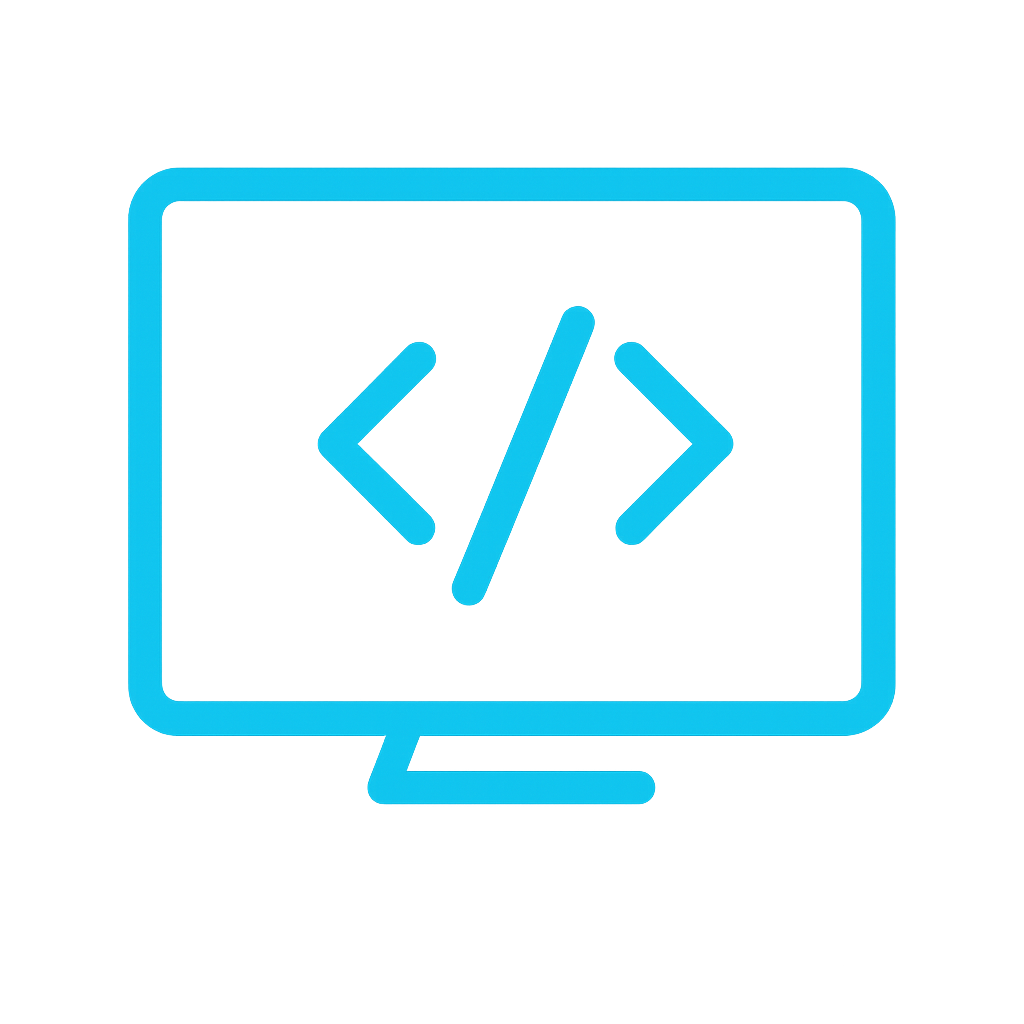
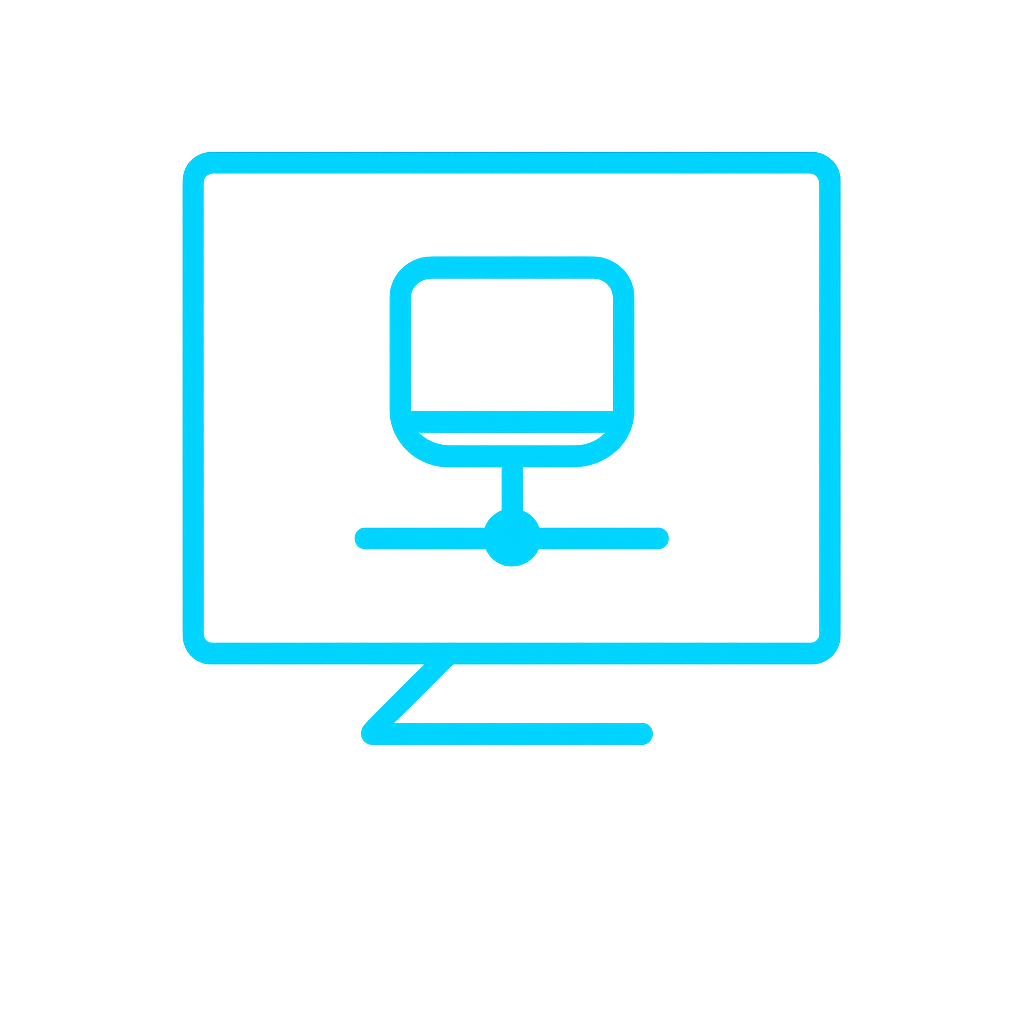
Service page is now available

Changed region(s): [[0.125, 0.125, 0.875, 0.8125], [0.3125, 0.25, 0.7188, 0.5938]]

diff --git a/src/Services/Services.tsx b/src/Services/Services.tsx
@@ -3,43 +3,45 @@ import './Services.css';
 const Services: React.FC = () => {
 
   return (
-    <section id="services">
-      <h3>Our Services</h3>
-      <div className="services">
-        <div className="service-item">
-          <h4>Web Development</h4>
-          <p>Design and develop modern, responsive websites that align with your brand and help achieve your business objectives.</p>
-        </div>
-        <div className="service-item">
-          <h4>SEO Optimization</h4>
-          <p>Boost your website's visibility on search engines with tailored strategies, keyword optimization, and analytics-driven results.</p>
-        </div>
-        <div className="service-item">
-          <h4>Custom Software Solutions</h4>
-          <p>Create bespoke software to automate workflows, improve efficiency, and solve specific business challenges.</p>
-        </div>
-        <div className="service-item">
-          <h4>Digital Marketing Assistance</h4>
-          <p>Expand your online reach with tailored marketing strategies, including social media campaigns and content creation.</p>
-        </div>
-        <div className="service-item">
-          <h4>Computer Setup & Optimization</h4>
-          <p>Ensure your devices are running at peak performance with expert setup, troubleshooting, and system optimization.</p>
-        </div>
-        <div className="service-item">
-          <h4>Networking & Internet Services</h4>
-          <p>Set up and optimize reliable, secure networks for your home or business, tailored to your specific needs.</p>
-        </div>
-        <div className="service-item">
-          <h4>Consultation</h4>
-          <p>Get expert advice on digital solutions, technology upgrades, and strategies to drive business success.</p>
-        </div>
-        <div className="service-item">
-          <h4>Workshops & Learning</h4>
-          <p>Get expert advice on digital solutions, technology upgrades, and strategies to drive business success.</p>
-        </div>        
+    <div className="services-page">
+      <div className="services-header">
+        <h1>Our Services</h1>
+        <p>Tailored Tech Solutions for Your Needs</p>
       </div>
-    </section>
+
+      <section className="services-grid">
+        <div className="service-card">
+          <img src="../assets/icon-web.webp" alt="Website Design" />
+          <h2>Website Design</h2>
+          <p>Custom, responsive websites that are user-friendly and visually appealing.</p>
+        </div>
+        <div className="service-card">
+          <img src="../assets/icon-ai.webp" alt="AI Tools & Automation" />
+          <h2>AI Tools & Automation</h2>
+          <p>Boost your productivity with smart AI solutions and automated processes.</p>
+        </div>
+        <div className="service-card">
+          <img src="../assets/icon-software.webp" alt="Custom Software Development" />
+          <h2>Custom Software Development</h2>
+          <p>Software tailored to your specific requirements and goals.</p>
+        </div>
+        <div className="service-card">
+          <img src="../assets/icon-consulting.webp" alt="Business Tech Consulting" />
+          <h2>Business Tech Consulting</h2>
+          <p>Expert advice to align your technology with business objectives.</p>
+        </div>
+        <div className="service-card">
+          <img src="../assets/icon-network.webp" alt="Computer & Network Optimization" />
+          <h2>Computer & Network Optimization</h2>
+          <p>Speed up your systems and ensure your network runs smoothly.</p>
+        </div>
+        <div className="service-card">
+          <img src="../assets/icon-onsite.webp" alt="On-Site Troubleshooting & Training" />
+          <h2>On-Site Troubleshooting & Training</h2>
+          <p>Get direct help and training right at your location.</p>
+        </div>
+      </section>
+    </div>
   );
 };
 

diff --git a/src/Services/Services.css b/src/Services/Services.css
@@ -1,0 +1,40 @@
+.services-page {
+  text-align: center;
+  padding: 2rem;
+  color: white;
+}
+
+.services-header h1 {
+  font-size: 2.5rem;
+  color: #00f1fb;
+  margin-bottom: 0;
+}
+
+.services-header p {
+  font-size: 1.2rem;
+  color: #ccc;
+  margin-bottom: 1.5rem;
+}
+
+.services-grid {
+  display: grid;
+  grid-template-columns: repeat(auto-fit, minmax(260px, 1fr));
+  gap: 2rem;
+  margin-bottom: 3rem;
+}
+
+.service-card img {
+  width: 64px;
+  height: 64px;
+}
+
+.service-card h2 {
+  font-size: 1.2rem;
+  margin-top: 0.25rem;
+  margin-bottom: 0.5rem;
+}
+
+.service-card p {
+  color: #ccc;
+  font-size: 0.95rem;
+}

diff --git a/src/Contact/Contact.tsx b/src/Contact/Contact.tsx
@@ -5,10 +5,10 @@ const Contact: React.FC = () => {
   return (
     <div className='contact'>
       <div className="contact-info">
-        <h2>Contact Me</h2>
+        <h2>Contact</h2>
         <p>
           Fill out the form below to send me an email.<br />
-          Or feel free to give me a call at <strong>(780) 330-9965</strong>.
+          Or feel free to give me a call at <span className="highlight">(780) 330-9965</span>.
         </p>
       </div>
 

diff --git a/src/Home/Home.tsx b/src/Home/Home.tsx
@@ -53,6 +53,10 @@ const Home: React.FC = () => {
             <img src="../assets/icon-onsite.webp" alt="On-Site Troubleshooting and Training" />
             <p>On-Site Troubleshooting & Training</p>
           </div>
+          <div className="service-item">
+            <img src="../assets/icon-software.webp" alt="Custom Software Development" />
+            <p>Custom Software Development</p>
+          </div>          
         </div>
       </section>
 
